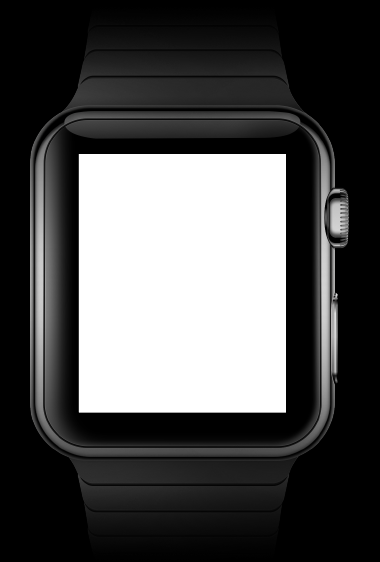
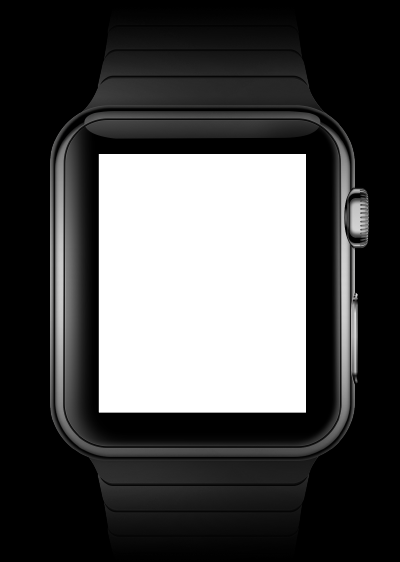
bugfix: changing coin layout

Changed region(s): [[0.0579, 0.0907, 0.2605, 0.9377], [0.7237, 0.0907, 0.9263, 0.8772], [0.7526, 0.2722, 0.7816, 0.7562]]

diff --git a/_sass/_layout.scss b/_sass/_layout.scss
@@ -33,8 +33,6 @@
 }
 
 .watch-wrapper {
-    width: 281px;
-    height: 281px;
     position:relative;
     margin: 0 auto 40px;
 }
@@ -42,24 +40,24 @@
 .watch {
     position: relative;
     margin:0 auto;
-    width: 190px;
+    width: 200px;
     height: 281px;
     background: url(../images/watch.png);
-    background-size: 190px 281px;
+    background-size: 200px 281px;
     z-index: 100;
     pointer-events: none; 
 }
 
 .coin-anim-wrapper {
     position: absolute;
-    top: 100px;
-    left: 76px;
+    top: 101px;
+    left: 81px;
     width: 80px; 
     height: 80px; 
     background: #000;
     border-radius: 100%;
     @include media-query($on-medium-screen) {
-        left:96px;
+        left:61px;
     }
 }
 
@@ -180,7 +178,7 @@
 
 .coins {
     list-style: none;
-    margin:0;
+    margin:0 0 -40px 0;
     @extend %clearfix;
     @include media-query($on-medium-screen) {
         text-align: justify;
@@ -194,9 +192,8 @@
 }
 
 .coin {
-    margin: 0 auto;
+    margin: 0 auto 50px;
     width: 195px;
-    height: 60px;
     background-size: 195px 104px;
     color:$brand-color;
     background-repeat:no-repeat;
@@ -208,18 +205,15 @@
         display: inline-block;
         text-align: center;
         width: 147px;
-        height: 20px;
         padding-top:90px;
         background-size: 147px 77px;
         font-size:14px;
+        margin-bottom: 0;
     }
 }
 
 .coin:last-child {
-    height: 20px;
-    @include media-query($on-medium-screen) {
-       margin-right:0;
-    }
+    margin-bottom: 0;
 }
 
 .coins .gbp { background-image: url(../images/coin_gbp.svg); }

diff --git a/index.html b/index.html
@@ -15,7 +15,7 @@ layout: default
         </div>
         <div class="watch"></div>
       </div>
-      <a class="app-store-available" href="http://www.apple.com/">
+      <a class="app-store-available" href="https://itunes.apple.com/gb/app/flip-on-it/id984512463?mt=8">
         Available on the App Store
       </a>
     </div>
@@ -52,7 +52,7 @@ layout: default
   <div class="wrapper">
     <div class="watch-phone">
       <img src="images/watch-and-phone.svg" alt="Apple Watch with iPhone">
-      <a class="app-store-download" href="http://www.apple.com/">
+      <a class="app-store-download" href="https://itunes.apple.com/gb/app/flip-on-it/id984512463?mt=8">
         Download from the App Store
       </a>
     </div>
